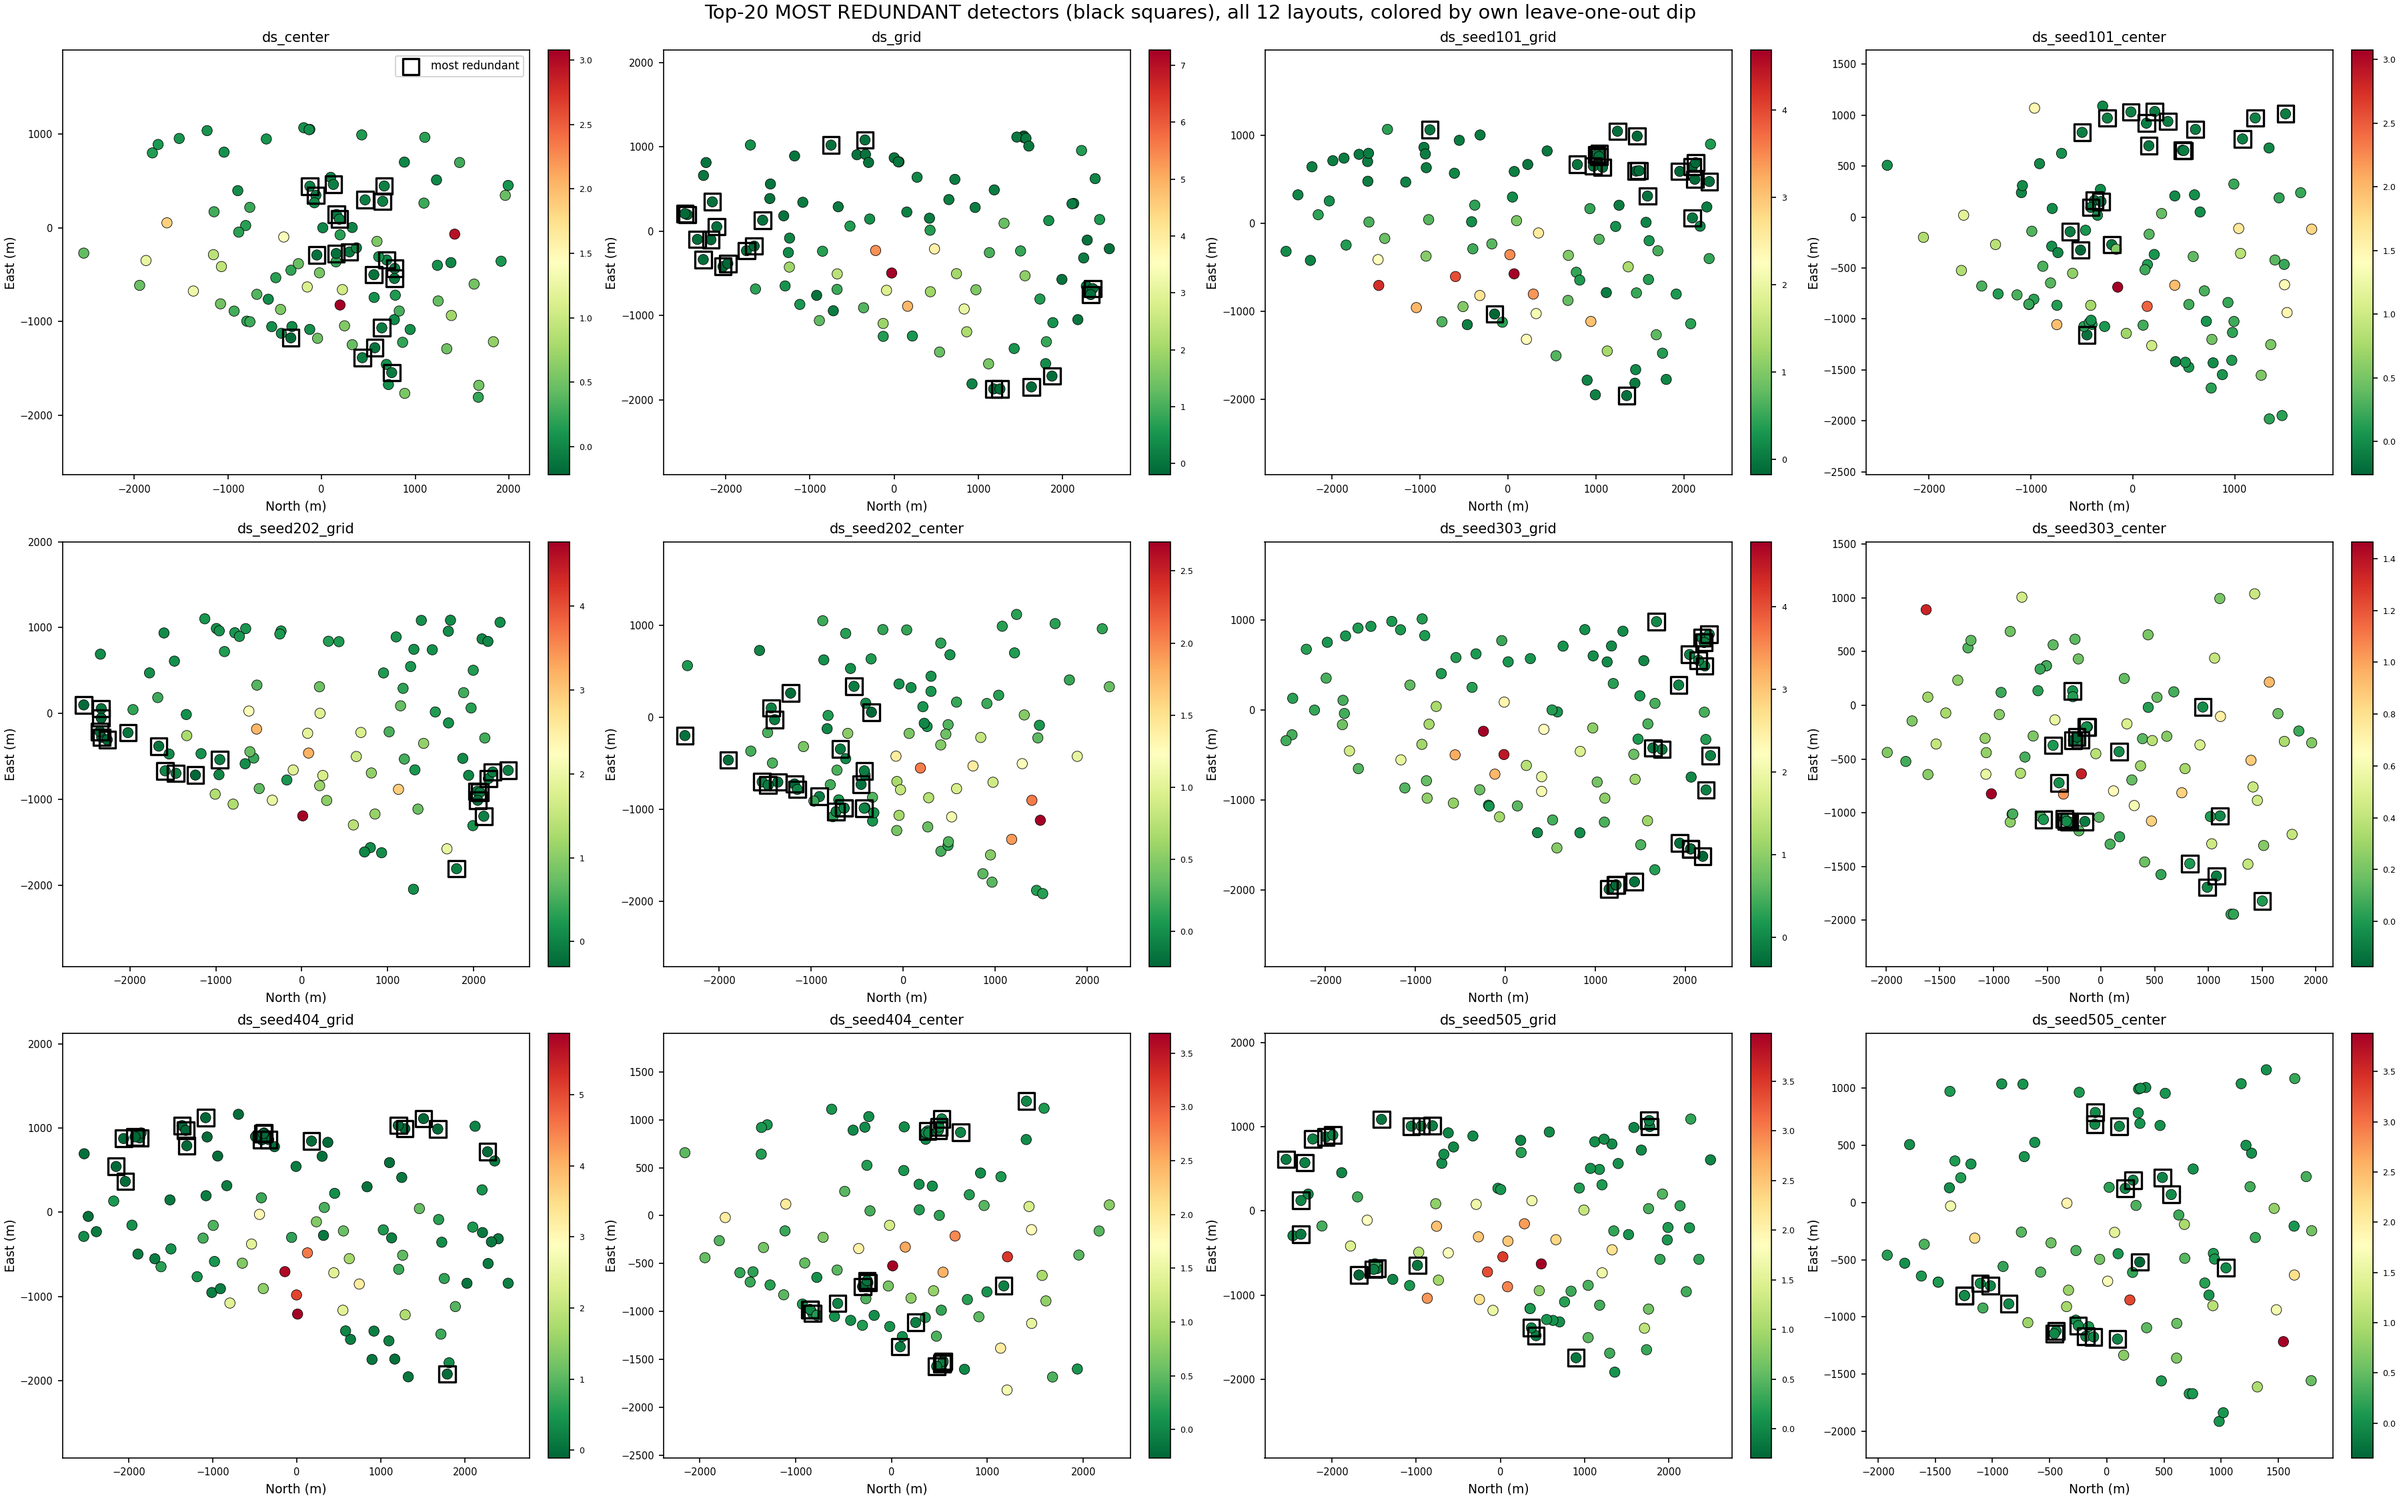
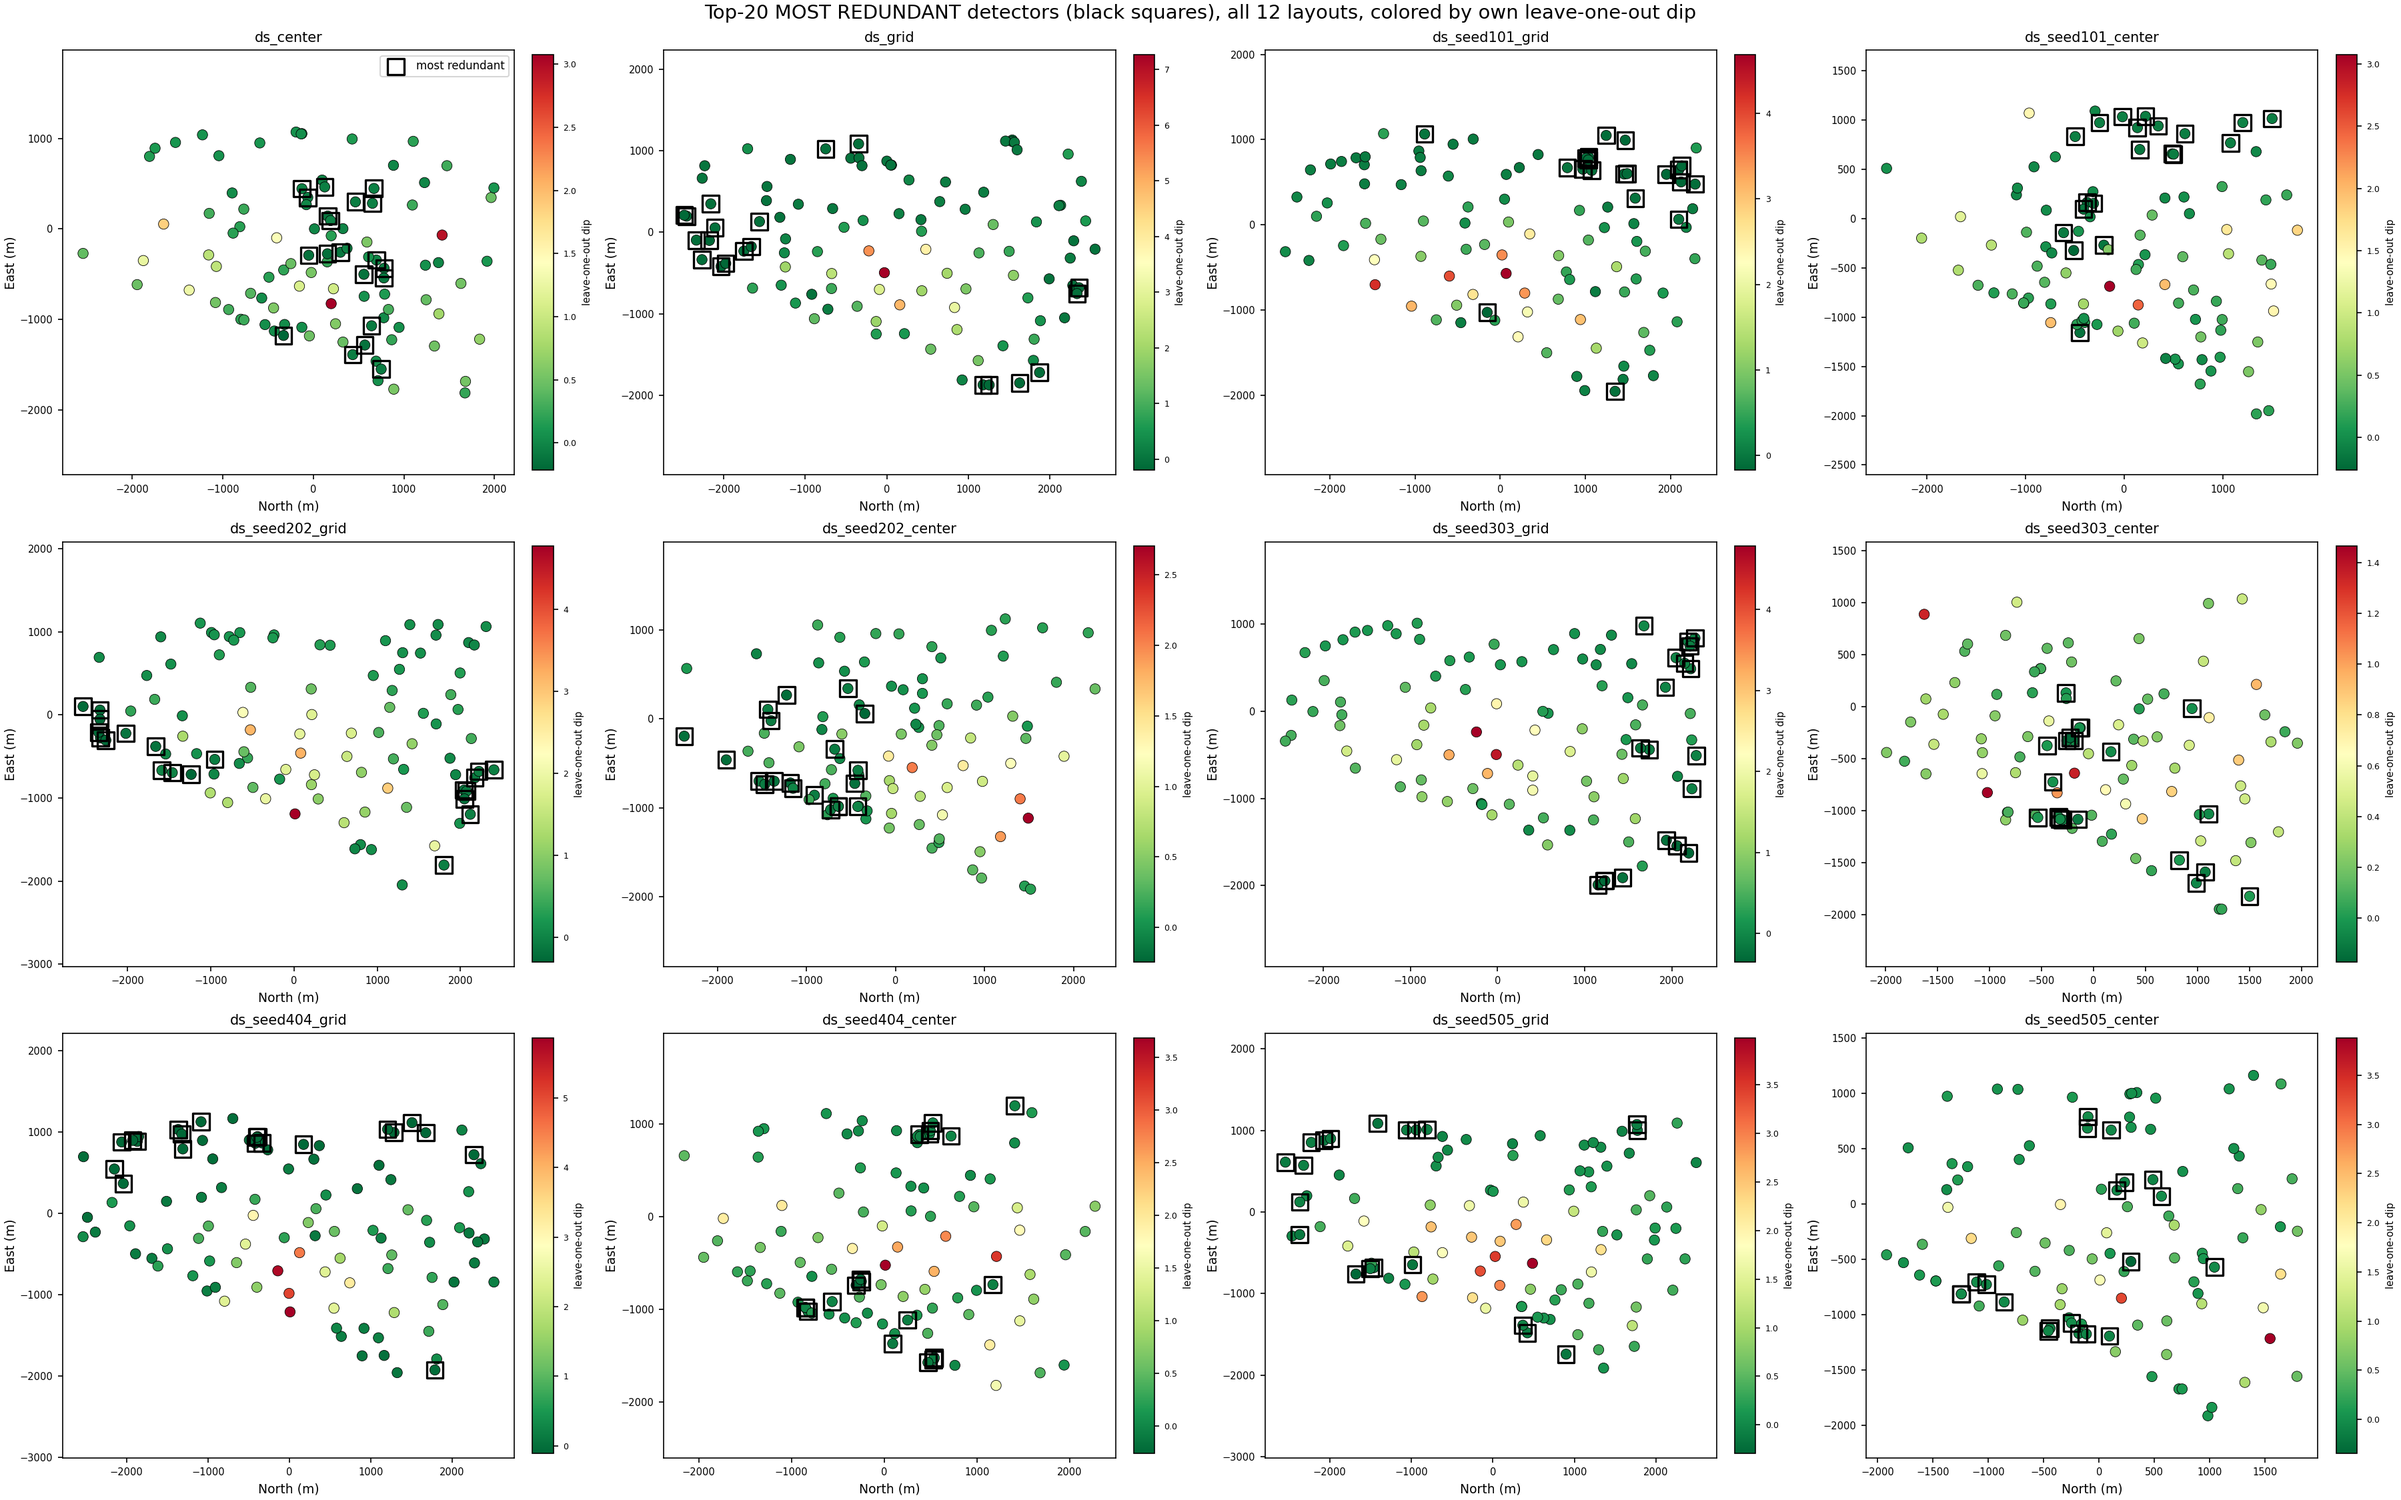
Label colorbars with leave-one-out dip in geometry grids

diff --git a/detector_optimization_v6/landscape_analysis/critical_detector_geometry_grid.py b/detector_optimization_v6/landscape_analysis/critical_detector_geometry_grid.py
@@ -91,7 +91,9 @@ def build_grid(mode, out_name, title):
         xy, dips = info["xy"], info["dips"]
         sc = ax.scatter(xy[:, 0], xy[:, 1], c=dips, cmap="RdYlGn_r", s=55,
                          edgecolor="k", linewidth=0.4, zorder=2)
-        fig.colorbar(sc, ax=ax, fraction=0.046, pad=0.04).ax.tick_params(labelsize=6)
+        cbar = fig.colorbar(sc, ax=ax, fraction=0.046, pad=0.04)
+        cbar.set_label("leave-one-out dip", fontsize=7)
+        cbar.ax.tick_params(labelsize=6)
         if mode == "critical":
             idx = info["critical_idx"]
             ax.scatter(xy[idx, 0], xy[idx, 1], facecolor="none", edgecolor="blue",
